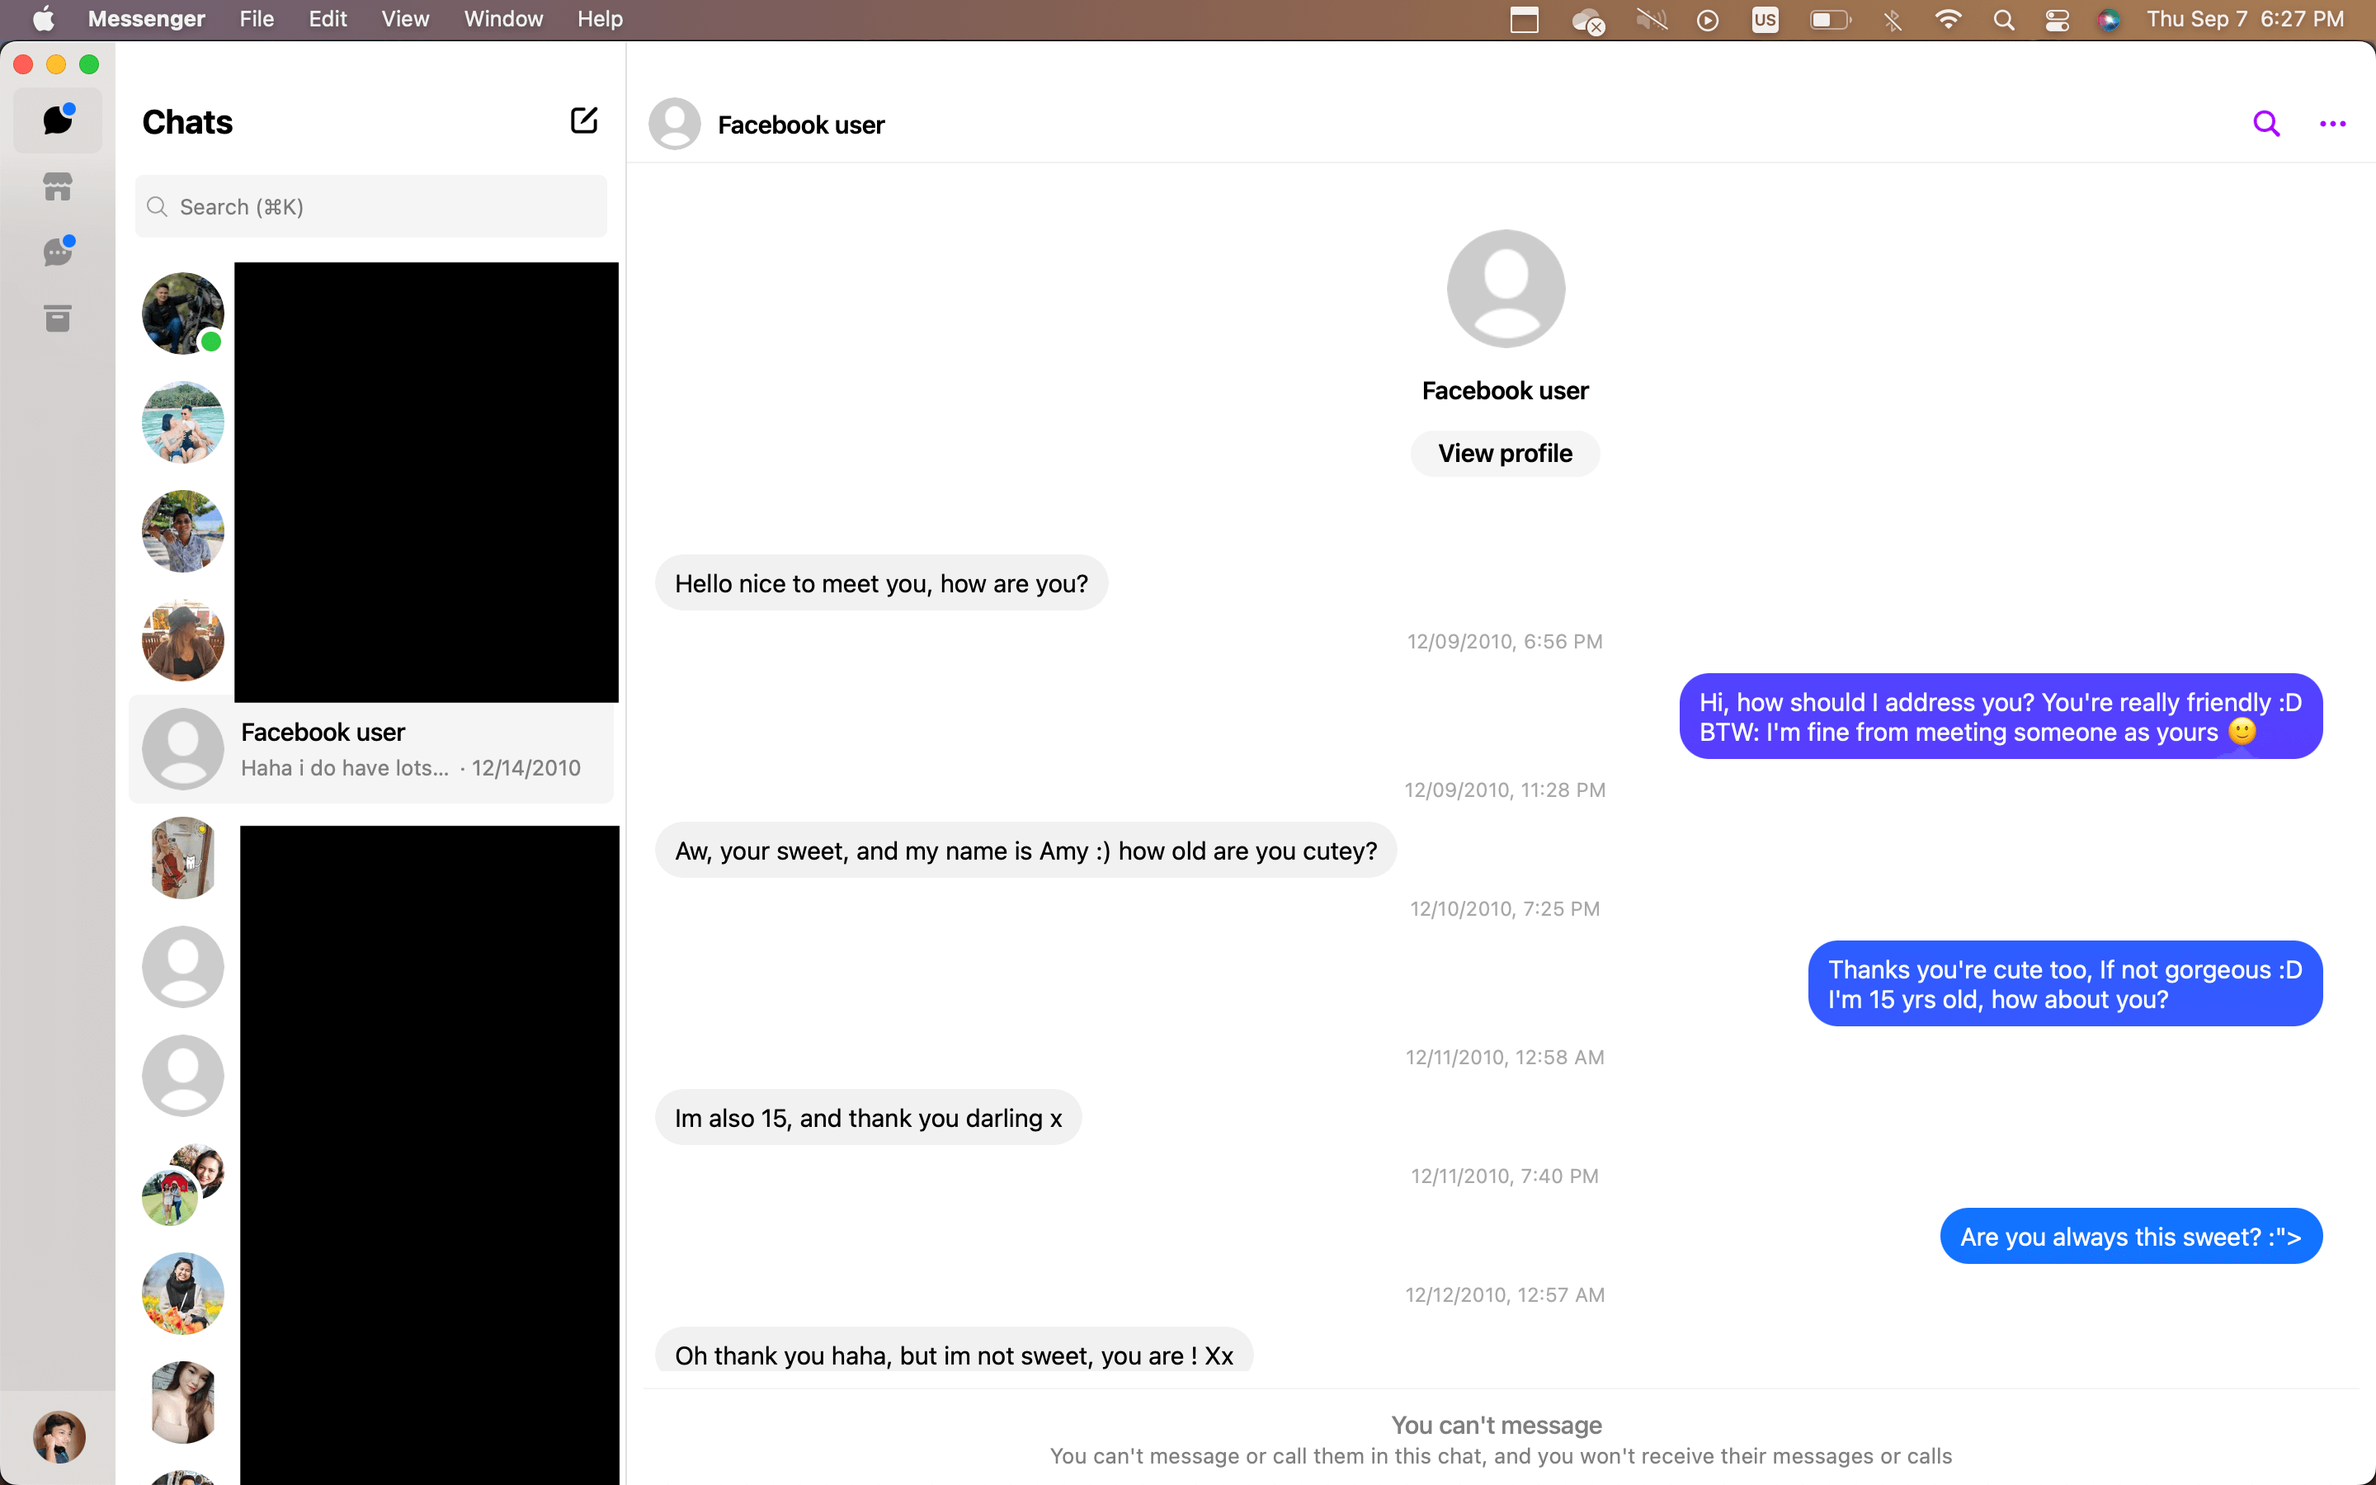
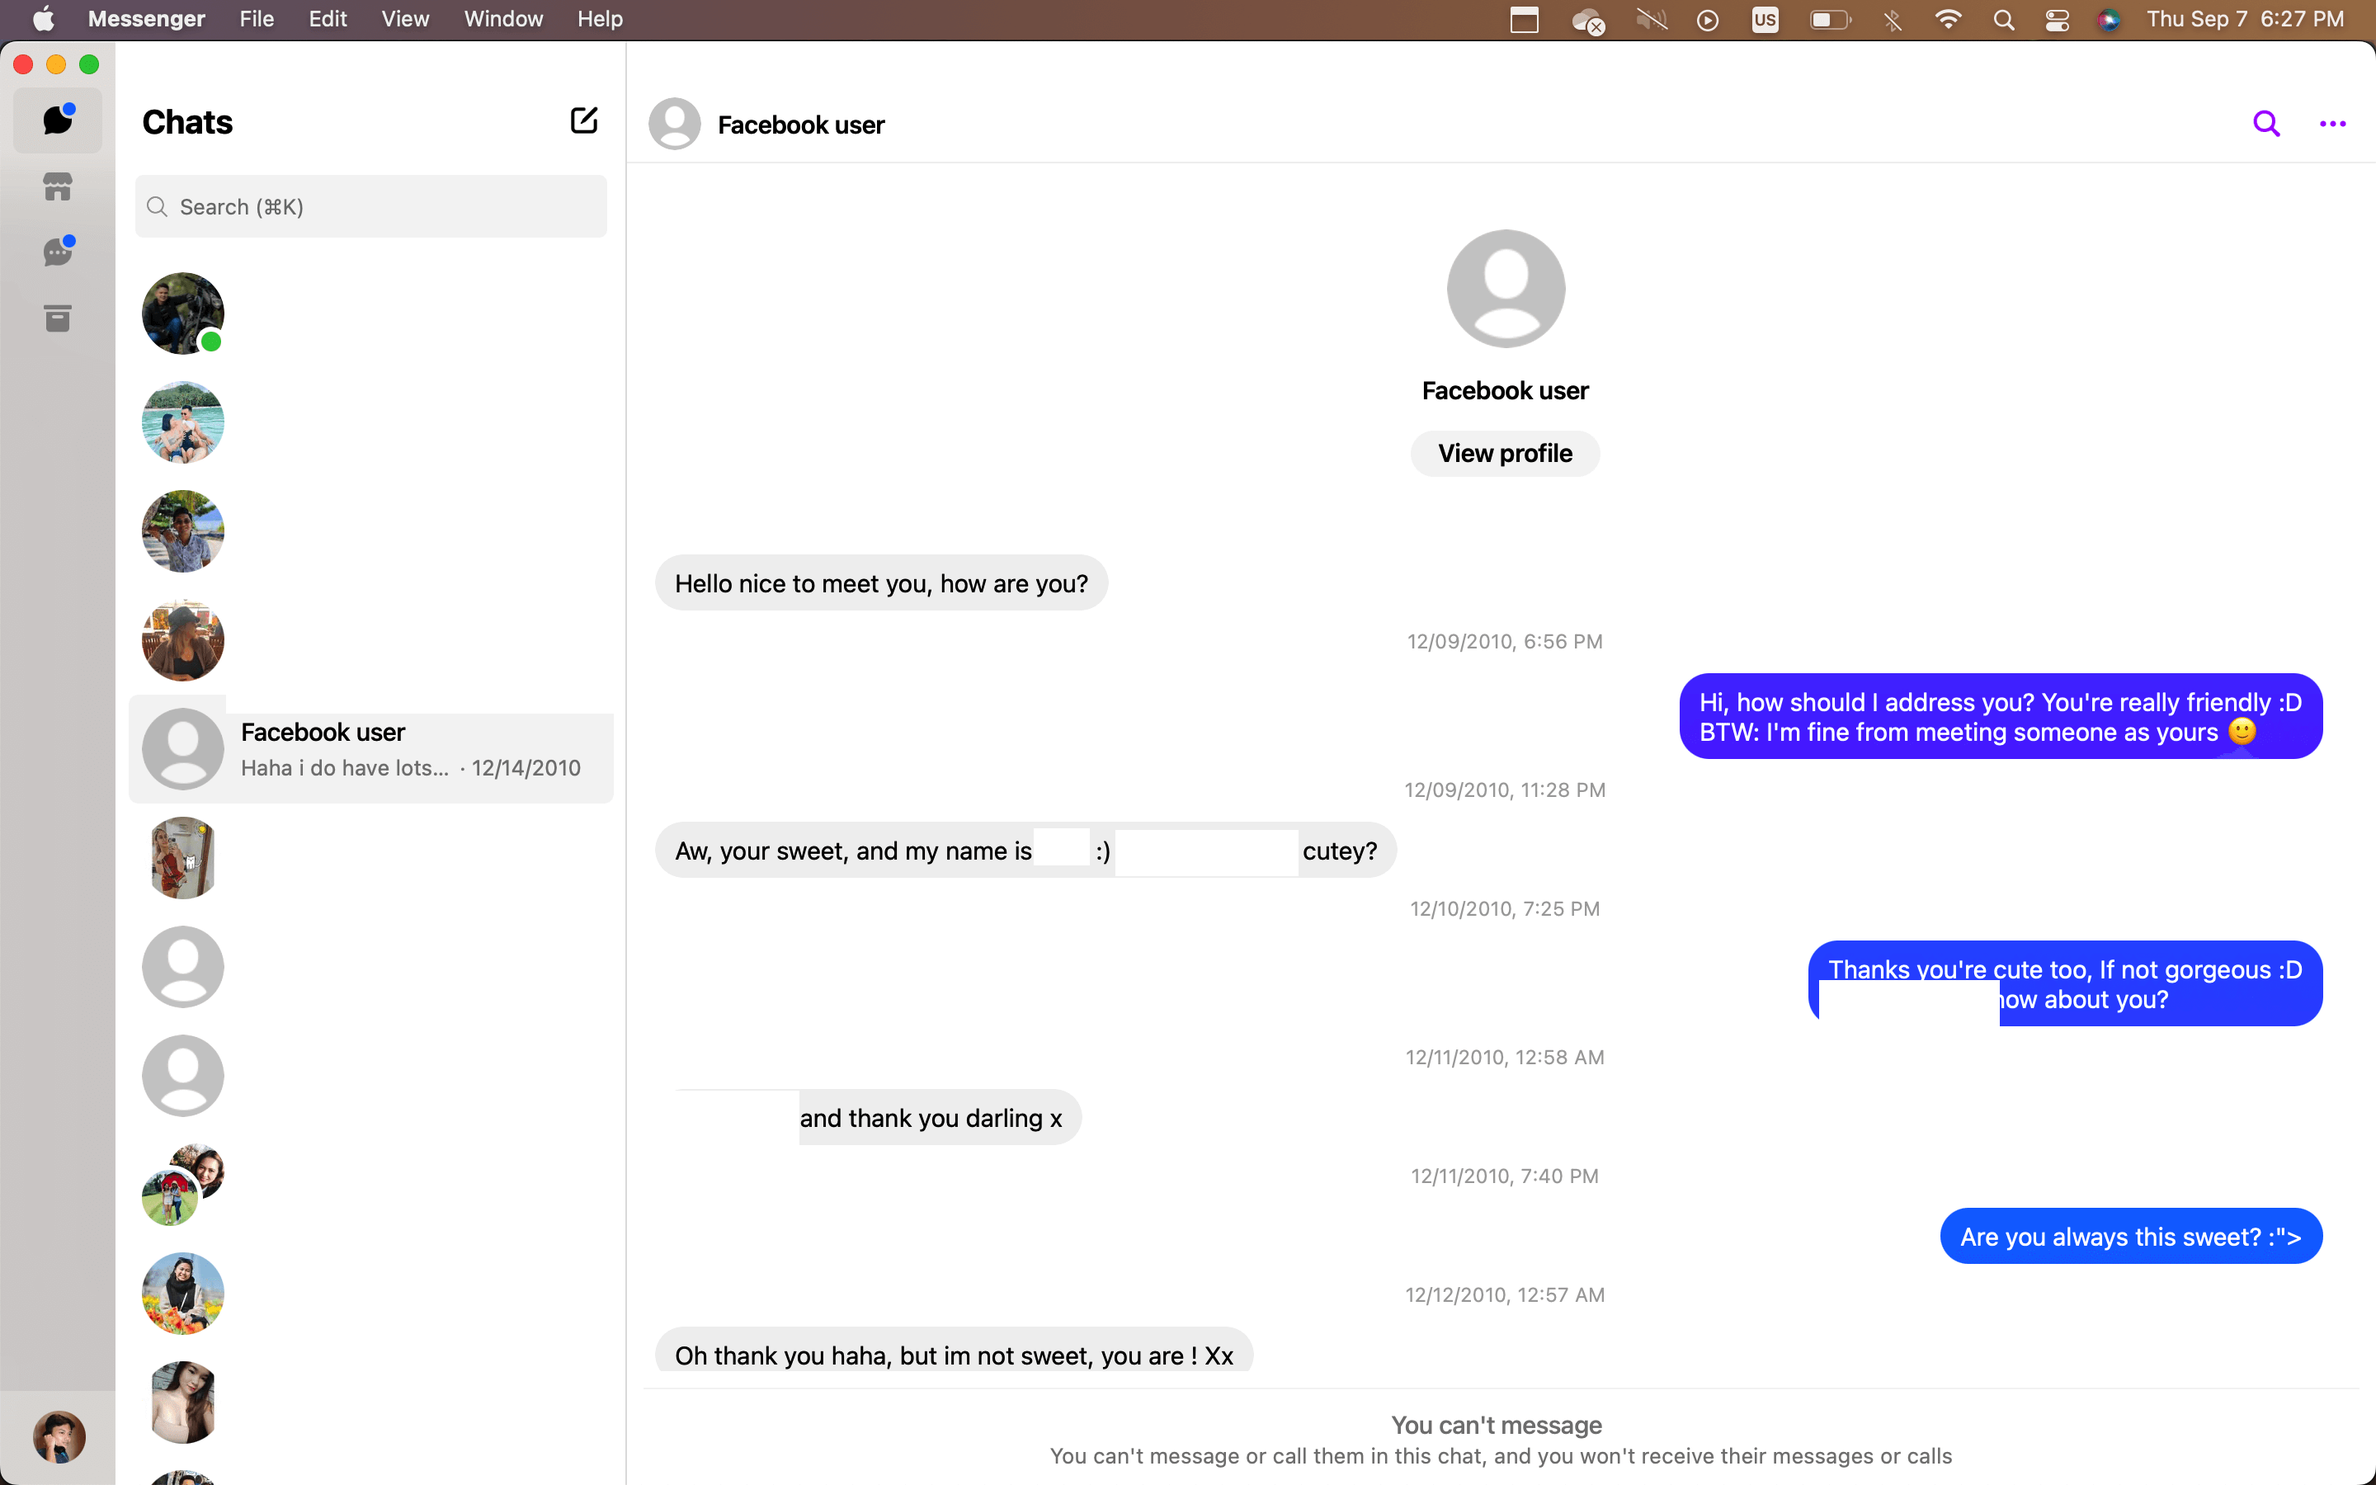
update

diff --git a/tags.md b/tags.md
@@ -2,41 +2,100 @@
 layout: default
 ---
 
+<style>
+  .tags-expo {
+    max-width: 800px;
+    padding: 20px;
+  }
+  .tags-expo-list {
+    margin-bottom: 20px;
+  }
+  .post-tag {
+    display: inline-block;
+    margin: 5px;
+    padding: 5px 10px;
+    background: #f0f0f0;
+    border-radius: 3px;
+    text-decoration: none;
+    color: #333;
+  }
+  .post-tag:hover {
+    background: #e0e0e0;
+  }
+  .tags-expo-section h2 {
+    margin-top: 20px;
+  }
+  .tags-expo-posts {
+    list-style: none;
+    padding: 0;
+  }
+  .tags-expo-posts li {
+    margin-bottom: 10px;
+  }
+  .post-title {
+    text-decoration: none;
+    color: #0066cc;
+  }
+  .post-title:hover {
+    text-decoration: underline;
+  }
+  .filter-input {
+    margin-bottom: 20px;
+    padding: 10px;
+    width: 100%;
+    font-size: 16px; 
+    box-sizing: border-box;
+    border: 1px solid #ccc; 
+    background-color: #E7DCD2;
+  }
+  .tag-link {
+    display: inline-block;
+    margin: 5px;
+    padding: 5px 10px;
+    background: #f0f0f0;
+    border-radius: 3px;
+    text-decoration: none;
+    color: #333;
+  }
+  .tag-link:hover {
+    background: #e0e0e0;
+  }
+</style>
+
 <div class="tags-expo">
   <div class="tags-expo-list">
     <p>Tags</p>
-    <ul>
-      {% assign all_posts = site.posts | concat: site.hacking | concat: site.python | concat: site.rand %}
-      {% assign tag_items = "" %}
+    <div id="tagLinks">
+      {% assign unique_tags = "" | split: "" %}
 
-      {% for post in all_posts %}
+      {% for post in site.posts %}
         {% for tag in post.tags %}
-          {% unless tag_items contains tag %}
-            {% assign tag_items = tag_items | append: tag | append: "," %}
+          {% unless unique_tags contains tag %}
+            {% assign unique_tags = unique_tags | push: tag %}
           {% endunless %}
         {% endfor %}
       {% endfor %}
 
-      {% assign tags = tag_items | split: "," | sort %}
+      {% assign sorted_tags = unique_tags | sort %}
 
-      {% for tag in tags %}
-        <li><a href="#{{ tag | slugify }}" class="post-tag">{{ tag }}</a></li>
+      {% for tag in sorted_tags %}
+        <a href="#{{ tag | slugify }}" class="tag-link">{{ tag }}</a>
       {% endfor %}
-    </ul>
+    </div>
 
   </div>
-  <hr/>
+  <p><sub>Note that sometimes I tag a blog post w/ several tags, e.g. <a href="/articles/2024/05/30/why-i-write.html">Why I Write</a> exists in <a href="/tags#meta">meta</a>, <a href="/tags#self">self</a>, and <a href="/tags#grind">grind</a></sub></p>
+  <input type="text" id="postFilter" class="filter-input" placeholder="Search by blog title...">
+
   <div class="tags-expo-section">
-    {% for tag in tags %}
+    {% for tag in sorted_tags %}
       <h2 id="{{ tag | slugify }}">{{ tag }}</h2>
       <ul class="tags-expo-posts">
-        {% for post in all_posts %}
+        {% for post in site.posts %}
           {% if post.tags contains tag %}
-            <li>
-              {{ post.date | date: "%Y-%m-%d" }}
-              <a class="post-title" href="{{ site.baseurl }}{{ post.url }}">
-                {{ post.title }}
-              </a>
+            <li class="post-item">
+              <span class="post-date">{{ post.date | date: "%Y-%m-%d" }}</span>
+              <a class="post-title" href="{{ site.baseurl }}{{ post.url }}">{{ post.title }}</a>
             </li>
           {% endif %}
         {% endfor %}
@@ -44,3 +103,39 @@ layout: default
     {% endfor %}
   </div>
 </div>
+
+<script>
+  document.getElementById('postFilter').addEventListener('input', function() {
+    var filter = this.value.toLowerCase();
+    var posts = document.querySelectorAll('.post-item');
+    posts.forEach(function(post) {
+      var title = post.querySelector('.post-title').textContent.toLowerCase();
+      if (title.includes(filter)) {
+        post.style.display = 'list-item';
+      } else {
+        post.style.display = 'none';
+      }
+    });
+
+    var tags = document.querySelectorAll('.tags-expo-section h2');
+    tags.forEach(function(tag) {
+      var tagPosts = tag.nextElementSibling.querySelectorAll('.post-item');
+      var hasVisiblePosts = Array.from(tagPosts).some(function(post) {
+        return post.style.display === 'list-item';
+      });
+      tag.style.display = hasVisiblePosts ? 'block' : 'none';
+    });
+  });
+
+  document.querySelectorAll('.tag-link').forEach(function(tagLink) {
+    tagLink.addEventListener('click', function(event) {
+      event.preventDefault();
+      var targetId = this.getAttribute('href').substring(1);
+      var targetElement = document.getElementById(targetId);
+      window.scrollTo({
+        top: targetElement.offsetTop,
+        behavior: 'smooth'
+      });
+    });
+  });
+</script>

diff --git a/_posts/2024-06-02-brief-parser.md b/_posts/2024-06-02-brief-parser.md
@@ -1,0 +1,133 @@
+---
+layout: post
+title: 'Parsers, briefly.'
+description: ''
+category: articles
+tags: [language-design]
+comments: true
+---
+
+A week ago there was a post on parsers at the [r/pinoyprogrammer](https://reddit.com/r/PinoyProgrammer/) sub that went:
+
+◉ [How to implement a parser for a toy compiler?](https://reddit.com/r/PinoyProgrammer/comments/1d29495/how_to_implement_a_parser_for_a_toy_compiler/)
+
+<!-- more -->
+
+I dont know much about parsers... so, let's talk about parsers 💀
+
+After all it gives me a good excuse to learn it too
+
+Basically, a parser takes a stream of data and turns it into a structured format, often an Abstract Syntax Tree (AST). This stream of data is usually a series of tokens—tiny chunks of information tagged with what they represent in the language
+
+Let's say we're working with a tiny script written in a simple language, it's JS-like:
+
+```
+let x = 5;
+if (x > 3) {
+    x = x + 1;
+}
+```
+
+First, we lex (tokenize) this script
+
+Lexing is basically just breaking the script into tokens like so:
+
+```
+let: KEYWORD
+x: IDENTIFIER
+=: OPERATOR
+5: NUMBER
+;: DELIMITER
+if: KEYWORD
+(: DELIMITER
+x: IDENTIFIER
+>: OPERATOR
+3: NUMBER
+): DELIMITER
+{: DELIMITER
+x: IDENTIFIER
+=: OPERATOR
+x: IDENTIFIER
++: OPERATOR
+1: NUMBER
+;: DELIMITER
+}: DELIMITER
+```
+
+Next, the parser comes into play. It takes these tokens and builds a data structure, usually an AST. Parsers do this by looking at tokens, figuring out what they represent, and recursively building the structure
+
+Let's see how this works with our `if` statement
+
+```
+if (x > 3) {
+    x = x + 1;
+}
+```
+
+Step 1 - Recognizes `if`
+
+- The parser sees `if` and starts an IfStatement node
+- **Recursive Call**: it calls a function to parse the condition
+
+Step 2 - Parsing the condition
+
+- Inside the function for parsing conditions, the parser sees `(` and calls another function to parse the expression inside
+- **Recursive Call**: it calls a function to parse `x > 3`
+
+Step 3 - Parsing the expression `x > 3`
+
+- Inside the function for parsing expressions, the parser sees `x` and calls a function to parse an identifier
+- **Recursive Call**: it calls a function to parse `x` as an identifier
+- Then it sees `>` and continues parsing
+- It sees `3` and calls a function to parse a number
+- **Recursive Call**: it calls a function to parse `3` as a number
+- It combines these into a BinaryExpression node and returns it -- I name it BinaryExpression as its just two operands and one operator, it's not a formal definitive thing, there's probably a more precise name for it
+
+Step 4 - Parsing the body
+
+- After the condition is parsed, the parser expects `{` and calls another function to parse the block of code
+- **Recursive Call**: it calls a function to parse the block
+
+Step 5 - Parsing the block `x = x + 1;`
+
+- Inside the block, it sees `x = x + 1;` which it identifies as a statement
+- **Recursive Call**: it calls a function to parse `x = x + 1`
+- This function further breaks down the assignment into smaller parts and calls functions to handle each part recursively
+
+After all of these, you got an AST that would look similar to this
+
+```
+IfStatement {
+    condition: BinaryExpression {
+        left: Identifier { name: x },
+        operator: >,
+        right: Number { value: 3 }
+    },
+    body: Block {
+        statements: [
+            Assignment {
+                identifier: Identifier { name: x },
+                value: BinaryExpression {
+                    left: Identifier { name: x },
+                    operator: +,
+                    right: Number { value: 1 }
+                }
+            }
+        ]
+    }
+}
+```
+
+And that's pretty much it I guess
+
+The AST can then be used for whatever you need—interpreting the code, compiling it, or anything else
+
+Parsers can get pretty complex, especially with different parsing techniques out there (like LL(1) or LR parsers), but at their core, they all break down a stream of tokens into a structured format. This blog post, the parser described is recursive descent, implemented LL(1) (see addendum). It's all about recognizing patterns and building a corresponding structure
+
+### Addendum
+
+I have a python implementation of the parser described here on my github at:
+
+[github.com/xjpa/recursive-descent-parser](https://github.com/xjpa/recursive-descent-parser)
+
+It parses the sample script above including the `let x = 5;` and prints a rudimentary visualization of the AST tree

diff --git a/about.md b/about.md
@@ -61,6 +61,6 @@ Your browser does not support the audio element.
 	  <big><strong>Hello!</strong></big> I'm <big><span style="font-family: 'Averia Serif Libre', serif;">John</span></big> but my friends call me Ice 🧊 
 </p>
 <p><a href="https://www.theregister.com/2022/11/16/musk_twitter_ultimatum/" target="_blank">hardcore</a>, <a href="https://web.archive.org/web/20231020192708/https://www.paulgraham.com/gba.html" target="_blank">hacker</a> learning to be <a href="https://steve-yegge.blogspot.com/2008/06/done-and-gets-things-smart.html" target="_blank">done and get things smart</a></p>
-<p>tech: into <a href="https://jack-vanlightly.com/blog/2024/5/7/learning-and-reviewing-system-internals-tactics-and-psychology" target="_blank">systems</a>, <a href="#" target="_blank">graphics</a>, <a href="#" target="_blank">data stores</a>, <a href="#" target="_blank">languages</a>, and <a href="#" target="_blank">AI</a></p>
+<p>tech: <a href="/tags#systems" target="_blank">systems</a>, <a href="/tags#computer-graphics" target="_blank">graphics</a>, <a href="/tags#data-stores" target="_blank">data stores</a>, <a href="/tags#language-design" target="_blank">language design</a>, and <a href="/tags#ai" target="_blank">AI</a></p>
 <p>i started this blog because <a href="/articles/2024/05/30/why-i-write" target="_blank">writing makes you more curious</a></p>
 <p>feel free to send emails at &lt;<code>j+p@johnamata.com</code>&gt;</p>

diff --git a/_posts/2024-05-30-why-i-write.md b/_posts/2024-05-30-why-i-write.md
@@ -49,7 +49,7 @@ But the abyss does not see you back, YOU see the abyss.
 
 You interpret everything. Your thoughts shape how you perceive the abyss, the world around you.
 
-What you need to do is get acquainted with the world of the seen, the tangible. You need an opponent, an imminent danger. Like talking to that hot friendly chick you see -- if she rejects you, it's fine, you can course correct. But if you didn't talk to her, you're cursed to live in your imagination, a world of "what ifs," of ideas and theory that'll bog you down in the end reading up voluminous incel advice and Andrew Tate dating advice videos.
+What you need to do is get acquainted with the world of the seen, the tangible. You need an opponent, an imminent danger. Like talking to that hot friendly chick you see -- if she rejects you, it's fine, you can course correct. But if you didn't talk to her, you're cursed to live in your imagination, a world of "what ifs," of ideas and theory that'll bog you down in the end turning you into one of those lost men looking up voluminous incel advice and Andrew Tate dating advice videos on social media
 
 So let's put our ideas out there, go build some resilience.
 

diff --git a/_rand/2023-09-07-mcga.md b/_rand/2023-09-07-mcga.md
@@ -25,6 +25,8 @@ Typing that, I actually got curious. Where is she now? I believe I never unfrien
 
 It just says "Facebook user." She deactivated her account. Last time I heard from her was 8 years ago, she was having trouble "finding herself." I couldnt find her on the net anymore. Dissapeared. I wished I reached out more to her, I hope she's doing fine. I was a shit friend who at the time didnt knew how to [talk to depressed people](https://www.healthline.com/health/how-to-help-a-depressed-friend). I thought the proper thing to do is to give them space to sort themselves out. I didnt realized she was no longer a part of my life.
 
+<img src="/photos/2023/be-seen-fb.png">
+
 I scrolled up to see our old messages, all the way to the first, to revisit the memories. And apart from cringing at my adolescent lines from then 🤦🤦 it made me realize how much I have pulled back to my shell. I need to change. One day I know I'll find her again and by that time, I want to look good, have better experiences
 
 After I wrote those above paragraphs, I reminisced a bit about my interactions with Hailey, it gave me both a realization and a challenge: <b>to put myself out there</b>
